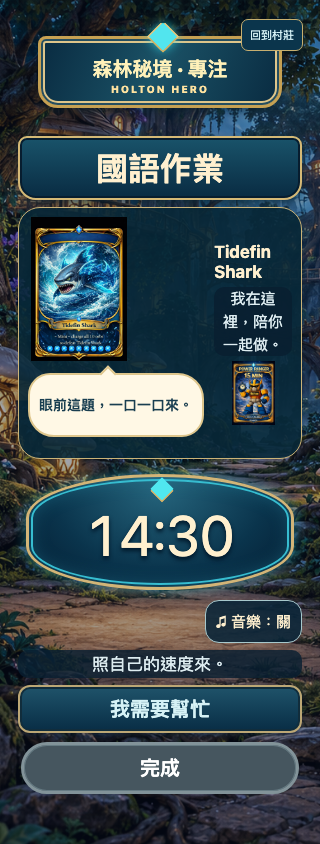
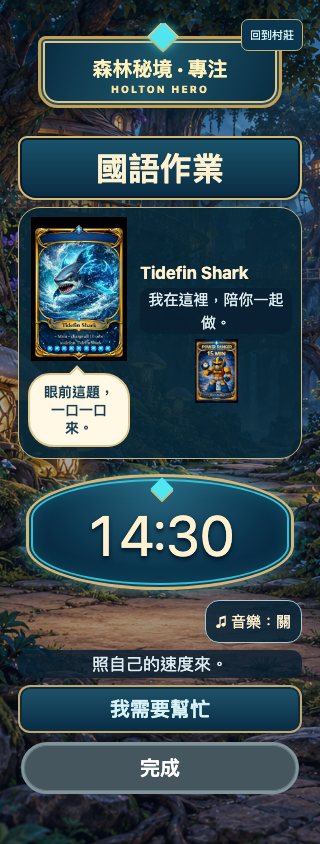
fix: prevent speech text from widening companion layout
actor: bot; approval: user22923; trigger: long-line visual QA

Changed region(s): [[0.0938, 0.2773, 0.9062, 0.5545]]

diff --git a/src/CompanionReaction.tsx b/src/CompanionReaction.tsx
@@ -36,7 +36,7 @@ const s=StyleSheet.create({
  root:{position:'relative',alignSelf:'center'},
  glow:{...StyleSheet.absoluteFillObject,borderRadius:12,borderWidth:2,borderColor:'#91f5ff',backgroundColor:'rgba(55,211,245,.12)'},
  slot:{height:88,paddingTop:12,width:'100%',justifyContent:'flex-start'},
- bubble:{minHeight:64,maxWidth:180,paddingVertical:8,paddingHorizontal:9,borderRadius:26,borderTopLeftRadius:22,borderBottomRightRadius:22,borderWidth:2,borderColor:'#dec68c',backgroundColor:'#fff8e5',justifyContent:'center'},
+ bubble:{position:'absolute',left:0,right:0,top:12,minHeight:64,maxWidth:180,paddingVertical:8,paddingHorizontal:9,borderRadius:26,borderTopLeftRadius:22,borderBottomRightRadius:22,borderWidth:2,borderColor:'#dec68c',backgroundColor:'#fff8e5',justifyContent:'center'},
  tail:{position:'absolute',top:-7,left:'42%',width:12,height:12,backgroundColor:'#fff8e5',borderTopWidth:2,borderLeftWidth:2,borderColor:'#dec68c',transform:[{rotate:'45deg'}]},
  text:{fontSize:14,lineHeight:18,textAlign:'center',fontWeight:'700',color:'#193e50'},
 });
